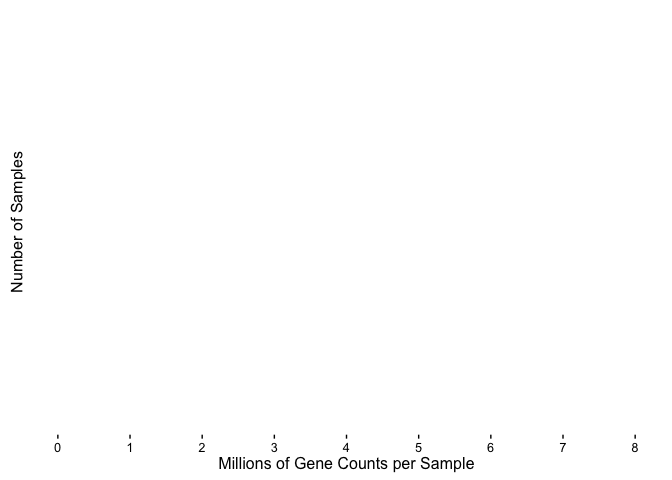
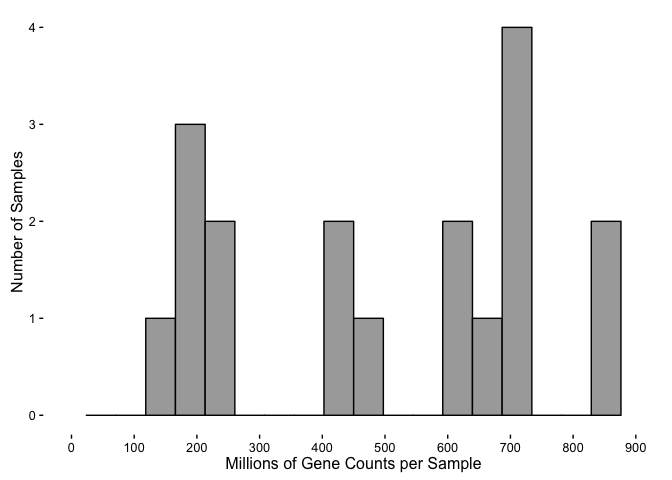
now better histogram

diff --git a/bin/Cembrowski.md b/bin/Cembrowski.md
@@ -132,13 +132,11 @@
     rowsum$sample <- row.names(rowsum)
 
     ggplot(rowsum, aes(x=millioncounts)) + 
-      geom_histogram(binwidth = 1, colour = "black", fill = "darkgrey") +
+      geom_histogram(bins = 20, colour = "black", fill = "darkgrey") +
       theme_classic() +
       scale_x_continuous(name = "Millions of Gene Counts per Sample",
-                         breaks = seq(0, 8, 1),
-                         limits=c(0, 8)) +
+                         breaks = seq(0, 900, 100),
+                         limits=c(0, 900)) +
       scale_y_continuous(name = "Number of Samples")
-
-    ## Warning: Removed 18 rows containing non-finite values (stat_bin).
 
 ![](../figures/cembrowski/edgeR-1.png)
